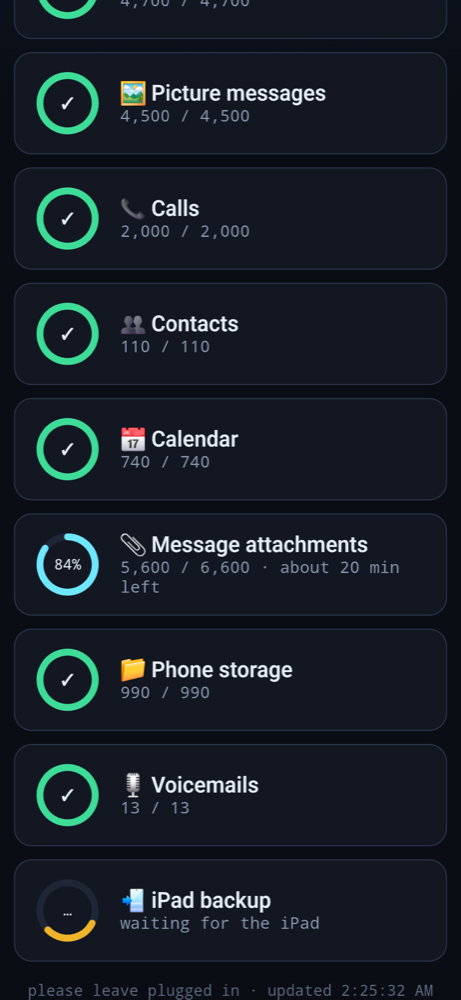
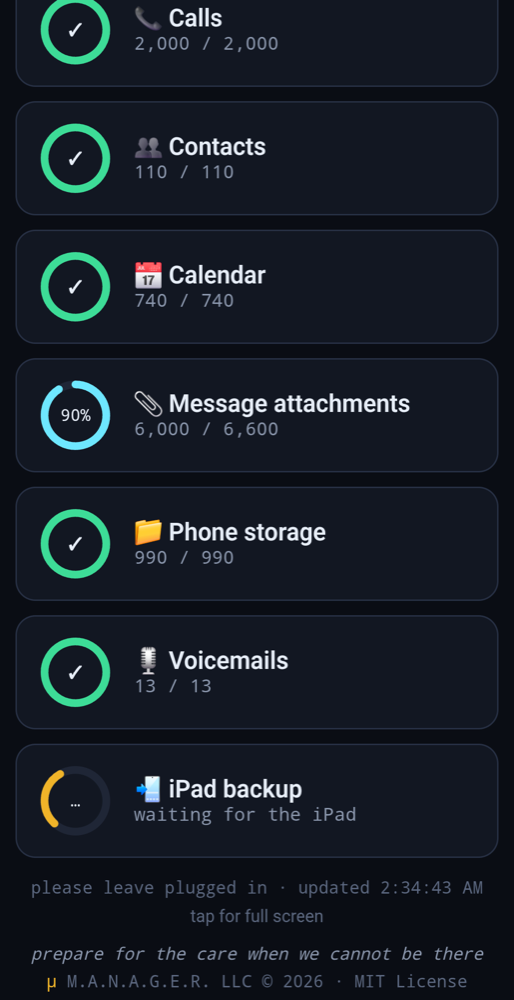
Status page footer (credo · μ M.A.N.A.G.E.R. LLC © 2026 · MIT License); new bottom capture; LICENSE holder M.A.N.A.G.E.R. LLC

diff --git a/site/greek-squat.html b/site/greek-squat.html
@@ -66,7 +66,7 @@
   <p>The loved one's own phone becomes the progress screen, through the same USB cable that saves it. No app to install, no Wi-Fi.</p>
   <div style="display:flex;gap:14px;flex-wrap:wrap;justify-content:center">
     <img src="greek_squat_status_top.png" alt="Phone screen: the phone-net-ICKS logo, the title Saving a loved one's phone, 95.5 percent, and finished steps for texts, picture messages, calls and contacts" style="width:min(46%,300px);min-width:220px;height:auto;border-radius:22px;border:1px solid var(--line)">
-    <img src="greek_squat_status_bottom.png" alt="Phone screen: more finished steps, message attachments at 84 percent with about 20 minutes left, phone storage and voicemails done, and the tablet backup waiting" style="width:min(46%,300px);min-width:220px;height:auto;border-radius:22px;border:1px solid var(--line)">
+    <img src="greek_squat_status_bottom.png" alt="Phone screen: more finished steps, message attachments at 90 percent, phone storage and voicemails done, the tablet backup waiting, and the footer: prepare for the care when we cannot be there, mu M.A.N.A.G.E.R. LLC 2026, MIT License" style="width:min(46%,300px);min-width:220px;height:auto;border-radius:22px;border:1px solid var(--line)">
   </div>
   <p class="sub" style="text-align:center">Live captures from the phone being saved, in screenshot mode: a generic title, counts rounded, the phone's own status bar off.</p>
 

diff --git a/stack/jobboard/phone_status.py b/stack/jobboard/phone_status.py
@@ -106,6 +106,7 @@ background:radial-gradient(1200px 700px at 50% -10%,#10223a 0%,transparent 60%),
 .name{font-size:clamp(17px,4.6vw,22px);font-weight:600}.meta{color:var(--dim);font-family:var(--mono);font-size:clamp(13px,3.4vw,15px)}
 .foot{color:var(--dimmer);font-family:var(--mono);font-size:12px;margin-top:2vh;text-align:center}
 .tap{color:var(--dimmer);font-size:12px;margin-top:6px}
+.brand{color:var(--dimmer);font-family:var(--mono);font-size:12px;margin-top:10px;text-align:center;line-height:1.6}.brand i{color:var(--dim)}.brand b{color:var(--mu);font-weight:400}
 /* logo animation */
 .pulse{animation:pulse 2.4s ease-out infinite;transform-origin:center}
 .pulse.d2{animation-delay:.8s}.pulse.d3{animation-delay:1.6s}
@@ -139,6 +140,7 @@ background:radial-gradient(1200px 700px at 50% -10%,#10223a 0%,transparent 60%),
 <div class="steps" id="steps"></div>
 <div class="foot">please leave plugged in · <span id="upd"></span></div>
 <div class="tap" id="tap">tap for full screen</div>
+<div class="brand"><i>prepare for the care when we cannot be there</i><br><b>μ</b> M.A.N.A.G.E.R. LLC © 2026 · MIT License</div>
 <script>
 const C=2*Math.PI*24;
 function ring(s){const pct=s.total?Math.min(1,s.done/s.total):0;const cls=s.total&&s.done>=s.total?'done':(s.total?'':'spin');
